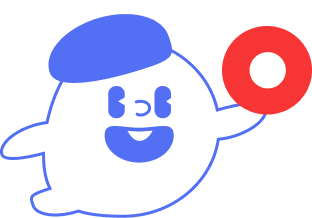
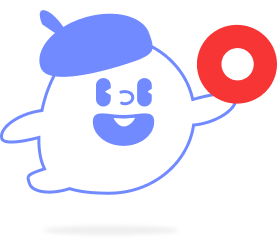
Feat: Reaction 캐릭터 수정

Changed region(s): [[0.0, 0.0275, 1.0, 0.9633], [0.1155, 0.9358, 0.5487, 1.0], [0.5487, 0.8807, 0.6065, 0.9358]]

diff --git a/src/components/classroom/Reaction.tsx b/src/components/classroom/Reaction.tsx
@@ -248,7 +248,7 @@ function Reaction() {
 	return (
 		<Container>
 			<MyReactionBox>
-				<p>{user.user_info.nickname}</p>
+				<MyNickname>{user.user_info.nickname}</MyNickname>
 				<ReactionButtons>
 					<ReactionLabel>
 						<ReactionInput
@@ -302,6 +302,11 @@ const MyReactionBox = styled.div`
 	position: relative;
 `;
 
+const MyNickname = styled.h2`
+	font-size: 20px;
+	font-weight: 700;
+`
+
 const ReactionButtons = styled.div`
 	width: 260px;
 	position: absolute;
@@ -313,8 +318,8 @@ const ReactionButtons = styled.div`
 
 const MyReactionCharacter = styled.img`
 	position: absolute;
-	bottom: 10px;
-	left: 10px;
+	bottom: -20px;
+	left: 0px;
 `;
 
 const ReactionBox = styled.div`

diff --git a/src/components/main/Card.tsx b/src/components/main/Card.tsx
@@ -33,7 +33,6 @@ const Card:React.FC<CardProps> = ({id, imageUrl, teacher, title, time, state }) 
 			<Teacher>{teacher} 님</Teacher>
 			<TimeTable>{time}</TimeTable>
 			<HomeButton src='/images/home.png' onClick={toClassHome} />
-			{state && state}
 		</Container>
 	);
 };
